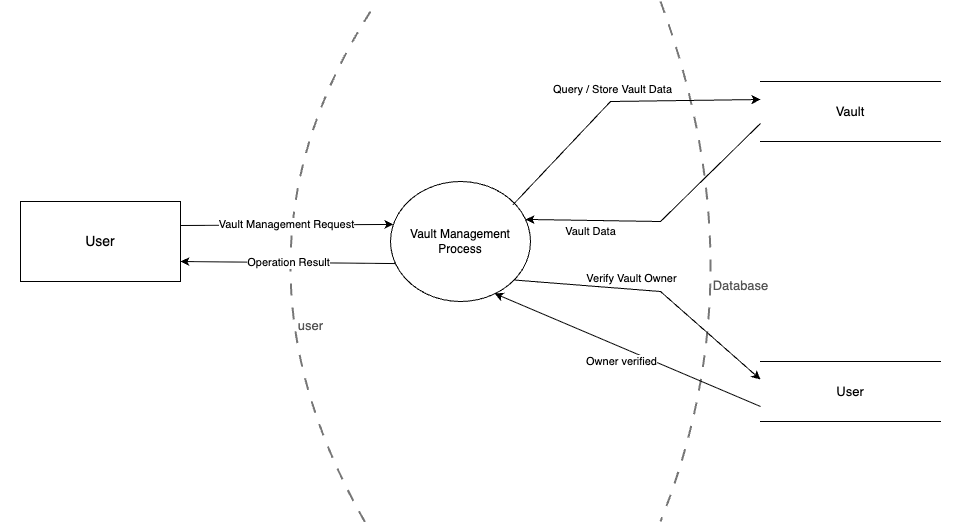
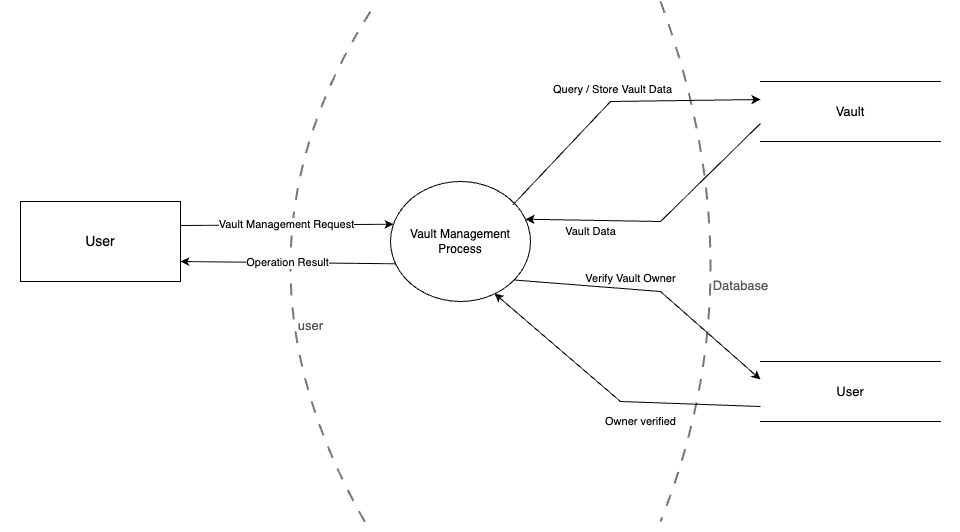
G - #6 - added threat analysis

diff --git a/Phase1/STRIDE.md b/Phase1/STRIDE.md
@@ -24,6 +24,28 @@
 | **Denial of Service** | User management endpoints or database are overloaded, preventing admin operations. |
 | **Elevation of Privilege** | Unauthorized users gain higher roles (e.g., becoming admin) through manipulated requests or system flaws. |
 
+### Vault Management
+
+| STRIDE | Threats Across Data Flow |
+|--------|--------------------------|
+| **Spoofing** | Attacker impersonates a legitimate user (via stolen JWT, session hijacking, or forged API requests) to access or manipulate vaults that do not belong to them. |
+| **Tampering** | Vault requests are modified in transit to alter names, descriptions, or ownership; attacker rewrites vault records in the database or bypasses ownership checks to edit other users' vaults. |
+| **Repudiation** | Vault creation, update, or deletion events are not logged (or are logged without user/device context), allowing a user to deny having performed destructive actions. |
+| **Information Disclosure** | Vault metadata (names, descriptions, owner identifiers) is exposed to unauthorized users due to missing or incorrect authorization checks (IDOR on `/vaults/{id}`). |
+| **Denial of Service** | Attacker abuses create/delete endpoints (mass vault creation, cascading deletes) to exhaust storage, saturate database connections, or lock tables. |
+| **Elevation of Privilege** | Attacker bypasses role checks (e.g., uses a Regular User token to call admin-only vault endpoints) to manage vaults belonging to other users. |
+
+### Credential Management
+
+| STRIDE | Threats Across Data Flow |
+|--------|--------------------------|
+| **Spoofing** | Attacker uses stolen tokens or session cookies to read, modify, or delete credentials stored in another user's vault. |
+| **Tampering** | Ciphertext is modified in transit or at rest (without authenticated encryption), leading to corrupted credentials that may decrypt into attacker-controlled plaintext; request payloads are tampered with to inject malicious content. |
+| **Repudiation** | Credential reads (especially decrypted reveals) and modifications are not logged or are logged without sufficient context, allowing a user to deny exfiltration. |
+| **Information Disclosure** | Plaintext credentials leak via error messages, debug logs, memory dumps, or insecure responses; encryption keys are exposed via the key store or application memory; IDOR allows fetching another user's credentials. |
+| **Denial of Service** | Brute-force or enumeration requests on credential endpoints saturate the decryption service; repeated malformed ciphertext triggers expensive error paths. |
+| **Elevation of Privilege** | Attacker who compromises one account moves laterally by exfiltrating credentials that grant access to other systems (credential reuse), or exploits missing authorization to read credentials from other users' vaults. |
+
 
 
 ## Threat Tree Analysis
@@ -33,6 +55,12 @@
 
 ### User Management
 ![User Management Threat Tree](./images/threat-tree-analysis/manage-users.png)
+
+### Vault Management
+![Vault Management Threat Tree](./images/threat-tree-analysis/manage-vaults/manage-vaults.png)
+
+### Credential Management
+![Credential Management Threat Tree](./images/threat-tree-analysis/manage-credentials/manage-credentials.png)
 
 
 

diff --git a/Phase1/ThreatIdentification.md b/Phase1/ThreatIdentification.md
@@ -96,5 +96,11 @@ Entry points define the interfaces through which potential attackers can interac
 ### User Management
 ![Manage Users](./images/data-flow-diagrams/manage-users.png)
 
+### Vault Management
+![Manage Vaults](./images/data-flow-diagrams/manage-vaults/manage-vaults.png)
+
+### Credential Management
+![Manage Credentials](./images/data-flow-diagrams/manage-credentials/manage-credentials.png)
+
 
 From: https://owasp.org/www-community/Threat_Modeling_Process#threat-model-information-sample
